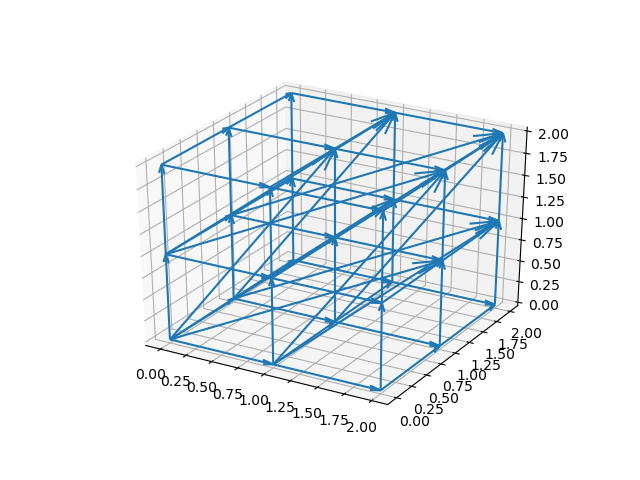
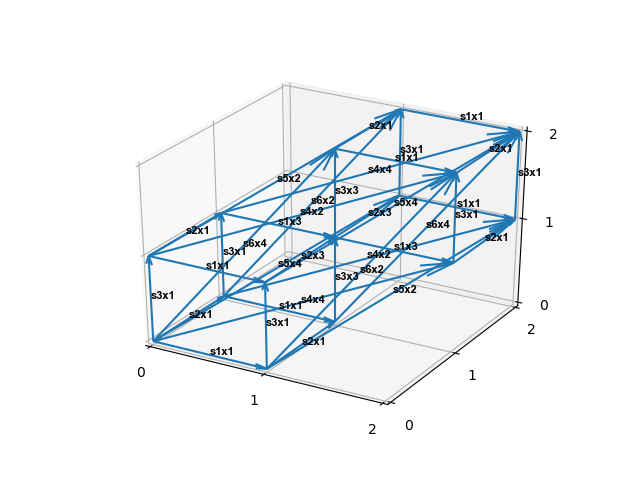
Added 3d graphing functionality

Changed region(s): [[0.2188, 0.1875, 0.9062, 0.9062], [0.2188, 0.75, 0.5938, 0.9062]]

diff --git a/build/lib/kirky/__init__.py b/build/lib/kirky/__init__.py
@@ -4,7 +4,7 @@ from .draw import DrawEdge
 from pyx import canvas
 from .helpers import common_denominator
 from fractions import Fraction, gcd
-from .tableau import solve_kirky
+from .tableau import solve_kirky, solve_kirky_scipy
 
 
 class Kirchhoff(object):
@@ -121,6 +121,14 @@ class Kirchhoff(object):
         vector_solution = solve_kirky(linear_system)
         return vector_solution
 
+    def solve_scipy(self, linear_system):
+        """
+        takes a linear system and returns a solution if one exists (the solution will be None
+        if a solution could not be found)
+        """
+        vector_solution = solve_kirky_scipy(linear_system)
+        return vector_solution 
+    
     def normalize_solution(self, vector_solution):
         """
         This takes the solution (composed of fractions) and multiplies through by a single constant
@@ -265,6 +273,58 @@ class Kirchhoff(object):
             print('--> solution found')
         solution = self.normalize_solution(vector_solution)
         self.set_edge_weights(solution)
+        if file:
+            c = canvas.canvas()
+            self.draw_edges(c)
+            c.writePDFfile(file)
+
+    def try_size_scipy(self, frame_shape, file=''):
+        # first we setup the block anew
+        self.frame = Frame(self.dimensions, self.num_vectors, self.steps)
+        first_frame_shape = self.get_first_frame_shape()
+        self.frame.seed_frame(first_frame_shape)
+        cross_vectors = self.get_cross_vectors()
+        for vector in cross_vectors:
+            self.frame.populate(vector)
+        # now we try to grow our block to the right size
+        if not self.frame.grow_to_size(frame_shape):
+            return None
+        print('--> generating linear system scipy')
+        linear_system = self.generate_linear_system()
+        print('     size is %s, %s' % (len(linear_system), len(linear_system[0])), 'scipy')
+        print('--> trying to find a solution scipy')
+        solution = self.solve_scipy(linear_system)
+        if solution is None:
+            print('--> solution not found scipy')
+            return None
+        else:
+            print('--> solution found scipy')
+        self.set_edge_weights(solution)
+        if file:
+            c = canvas.canvas()
+            self.draw_edges(c)
+            c.writePDFfile(file)
+
+    def find_scipy(self, file=''):
+        """
+        This is the meat of the algorithm. It takes the frame and runs the steps outlined
+        in the report. So if you've read the report this should be pretty self explanatory.
+        """
+        dimension = 0
+        while True:
+            print('--> generating linear system')
+            linear_system = self.generate_linear_system()
+            print('     size is %s, %s' % (len(linear_system), len(linear_system[0])))
+            print('--> trying to find a solution')
+            vector_solution = self.solve_scipy(linear_system)
+            if vector_solution is None:
+                print('--> solution not found')
+                print('--> doubling along dimension %s' % dimension)
+                self.frame.double(dimension)
+                dimension = (dimension + 1) % self.dimensions
+            else:
+                break
+        self.set_edge_weights(vector_solution)
         if file:
             c = canvas.canvas()
             self.draw_edges(c)

diff --git a/build/lib/kirky/tableau.py b/build/lib/kirky/tableau.py
@@ -1,5 +1,7 @@
 from fractions import Fraction
 from future.utils import viewitems
+from scipy.optimize import linprog
+import numpy as np
 
 
 class Tableau(object):
@@ -36,7 +38,6 @@ class Tableau(object):
         self.pivot_row_index = None
         self.find_pivot()
         self.solution = None                                                                            # (f)
-
     def find_pivot(self):
         """
         This method finds the new pivot row and pivot column and sets the pivot_row, pivot_row_index, and
@@ -275,3 +276,20 @@ def solve_kirky(E):
     else:
         tableau.get_solution()
         return tableau.solution[:num_weights]                                                       # (j)
+
+def solve_kirky_scipy(E):
+    num_weights = len(E[0])
+    sum_condition_row = [Fraction(1)] * num_weights + [Fraction(-1)]                                # (a)
+    sum_condition_value = Fraction(1)
+    for row in E:                                                                                   # (b)
+        row.append(Fraction(0))
+    E.append(sum_condition_row)                                                                     # (c)
+    b = [Fraction(0)] * (len(E) - 1) + [sum_condition_value]                                        # (d)
+    c = [1 for i in range(num_weights + 1)]
+    result = linprog(c, A_eq=E, b_eq=b, integrality=1, method='highs')
+    status = result.status
+    if(status == 0):
+        return result.x 
+    else:
+        return None
+

diff --git a/build/lib/kirky/imagine.py b/build/lib/kirky/imagine.py
@@ -4,6 +4,8 @@ from sklearn.decomposition import PCA
 from collections import defaultdict
 import matplotlib.pyplot as plt
 from tqdm import tqdm
+from mpl_toolkits.mplot3d import Axes3D
+
 
 
 class Indexer(object):
@@ -88,6 +90,24 @@ def draw(k, file_path, x=None, y=None):
 	plt.clf()
 	plt.figure(figsize=(10,10))
 	x = nx.draw_networkx_edges(graph, pos=projected_vertices)
-	nodes = nx.draw_networkx_edge_labels(graph, pos=projected_vertices,
-										 edge_labels=edge_labels, label_pos=0.2)
+	nodes = nx.draw_networkx_edge_labels(graph, pos=projected_vertices, font_size=6,
+										 edge_labels=edge_labels, label_pos=0.65)
 	plt.savefig(file_path)
+
+
+def draw3d(k, file_path):
+	edges = list(k.frame.coordinate_vectors) + list(k.frame.cross_vectors)
+	tail_coordinates = [[int(coord) for coord in edge.tail] for edge in edges]
+	head_coordinates = [[int(coord) for coord in edge.head] for edge in edges]
+	edge_components = np.subtract(head_coordinates, tail_coordinates)
+	X, Y, Z= zip(*(tail_coordinates))
+	U, V, W = zip(*edge_components)
+	x_lim = [min(X+U), max(X+U)]
+	y_lim = (min(Y+V), max(Y+V))
+	z_lim = (min(Z+W), max(Z+W))
+	fig = plt.figure()
+	ax = fig.add_subplot(111, projection='3d')
+	ax.quiver(X, Y, Z, U, V, W, arrow_length_ratio=0.1, pivot='tail')
+	plt.savefig(file_path, format='png')
+	plt.show()
+	plt.close()

diff --git a/kirky/imagine.py b/kirky/imagine.py
@@ -97,8 +97,10 @@ def draw(k, file_path, x=None, y=None):
 
 def draw3d(k, file_path):
 	edges = list(k.frame.coordinate_vectors) + list(k.frame.cross_vectors)
+	edges = [edge for edge in edges if edge.weight != 0]
 	tail_coordinates = [[int(coord) for coord in edge.tail] for edge in edges]
 	head_coordinates = [[int(coord) for coord in edge.head] for edge in edges]
+	text_coordinates = np.divide(np.add(tail_coordinates, head_coordinates), 2)
 	edge_components = np.subtract(head_coordinates, tail_coordinates)
 	X, Y, Z= zip(*(tail_coordinates))
 	U, V, W = zip(*edge_components)
@@ -107,7 +109,15 @@ def draw3d(k, file_path):
 	z_lim = (min(Z+W), max(Z+W))
 	fig = plt.figure()
 	ax = fig.add_subplot(111, projection='3d')
+	ax.set_xlim(x_lim)
+	ax.set_ylim(y_lim)
+	ax.set_zlim(z_lim)
 	ax.quiver(X, Y, Z, U, V, W, arrow_length_ratio=0.1, pivot='tail')
+	for i, edge in enumerate(edges):
+		ax.text(text_coordinates[i][0], text_coordinates[i][1], text_coordinates[i][2], f's{edge.id + 1}x{int(edge.weight)}', color='black', fontsize=8, fontweight='bold', fontname='Arial')
+	ax.set_xticks(np.arange(min(X), max(X)+1, 1))
+	ax.set_yticks(np.arange(min(Y), max(Y)+1, 1))
+	ax.set_zticks(np.arange(min(Z), max(Z)+1, 1))
 	plt.savefig(file_path, format='png')
 	plt.show()
 	plt.close()

diff --git a/example.py b/example.py
@@ -15,8 +15,8 @@ matrix = np.array([[Fraction(2),Fraction(1), Fraction(1)],
 				   [Fraction(1),Fraction(1), Fraction(2)]])
 k = Kirchhoff(matrix)
 k.find_scipy()
+#draw(k, 'drawings/kirchhoff5_scipy.png', x=[0.5, 0, 1], y=[-0.5, 1, 0])
 draw3d(k, 'drawings/kirchhoff5_3d.png')
-
 
 '''
 
